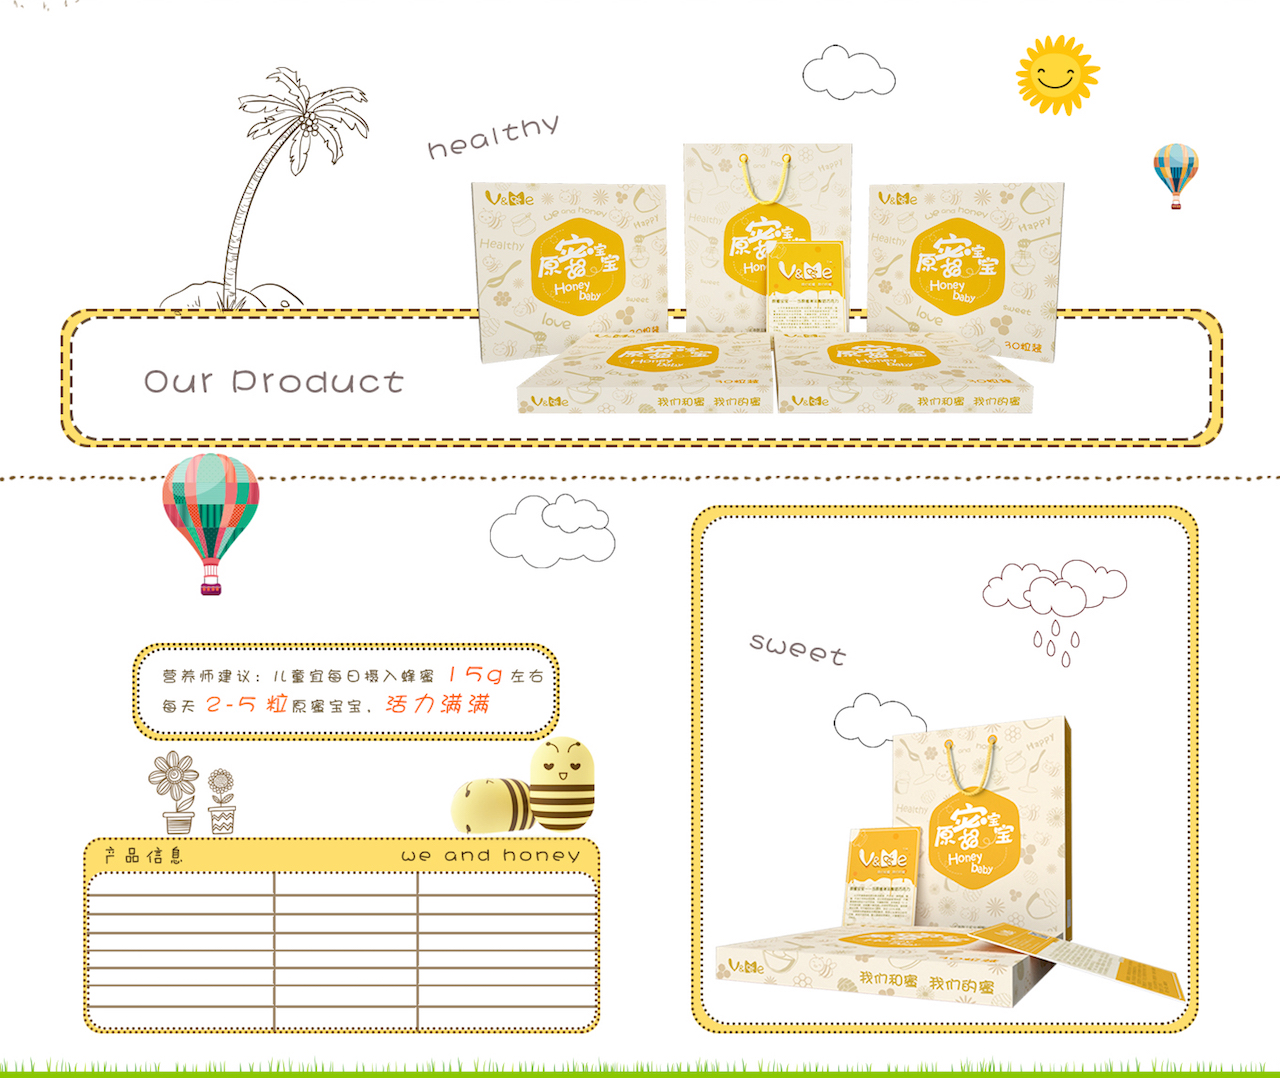
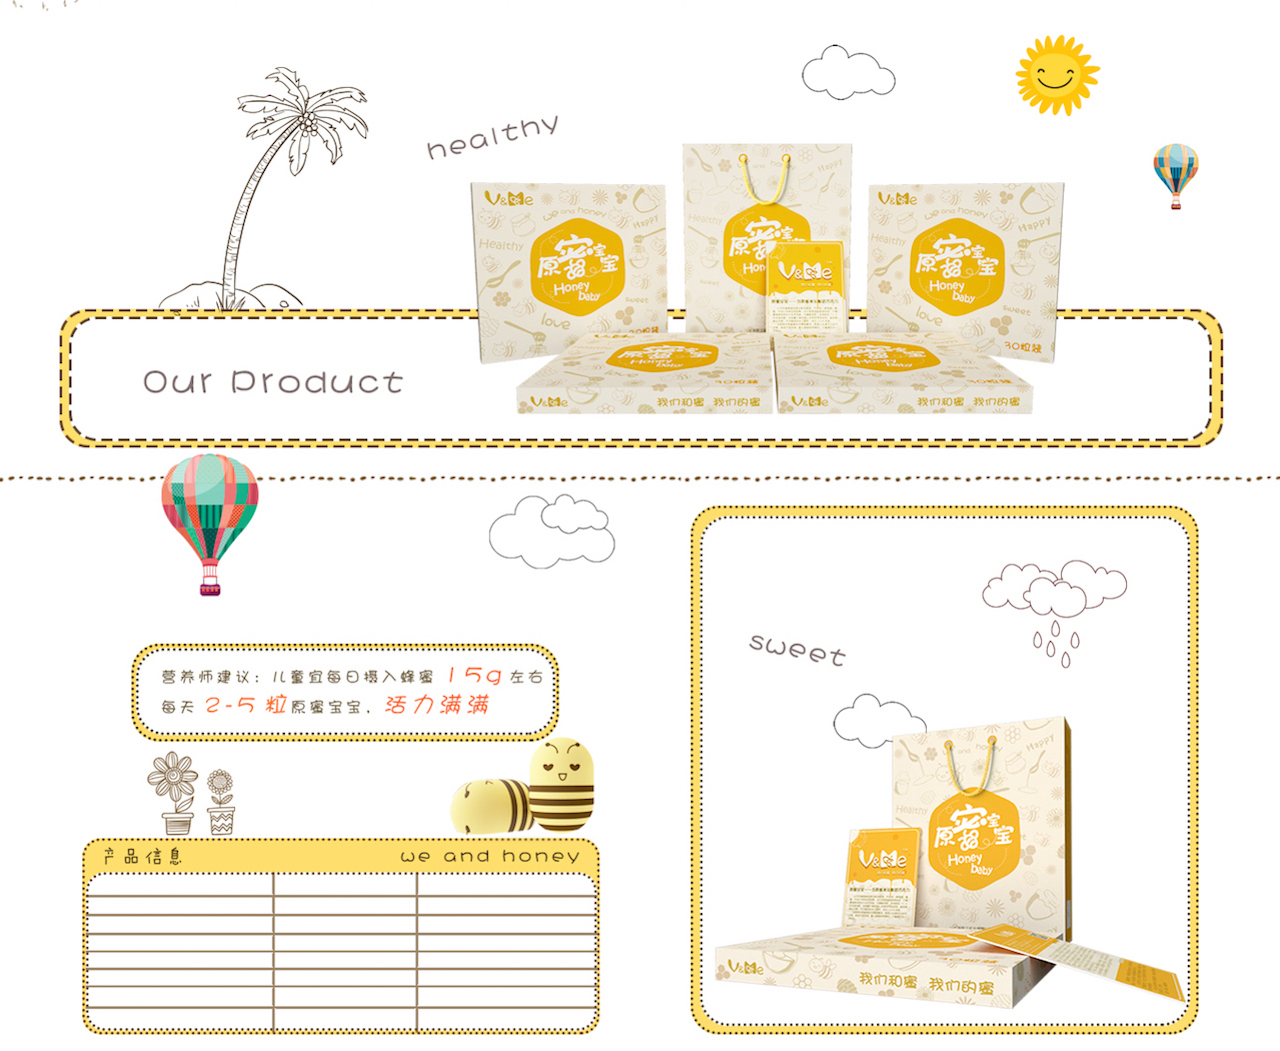
add

diff --git a/index.html b/index.html
@@ -184,7 +184,7 @@
         flex: 1;
     }
     .myfixed {
-        width: 1280px;
+
     }
 </style>
 <!--product-->
@@ -192,24 +192,24 @@
     <div class="container-fluid">
         <div class="row">
             <div class="mygrid">
-                <div class="mycol myfluid" style=" background: url(./image/section-bg2left.jpeg)"></div>
-                <div class="mycol myfixed" style="height: 578px; padding-top: 90px; background: url(./image/section-bg2.png) center no-repeat;">
+                <div class="mycol myfluid" style=" background: url(./image/caodi.png)"></div>
+                <div class="mycol myfixed" style="width:1588px;height: 578px; padding-top: 100px; background: url(./image/section-bg2.png)">
                     <div class="row">
-                        <div style="width: 439px ;height: 160px;margin-left: 780px">
+                        <div style="width: 439px ;height: 160px;margin-left: 880px">
                             <h3>原蜜宝宝--当原蜜邂逅巧克力</h3>
                         </div>
                     </div>
                     <div class="row">
-                        <div style="width: 439px ;height: 160px;margin-left:115px">
+                        <div style="width: 420px ;height: 160px;margin-left:295px">
                             <br>
                             <h3>" 当甜甜的原蜜邂逅浓厚的酸奶，再加上丝滑可口的可可脂，美味不言而喻。配上萌萌哒表情包，小蜜蜂分你一份快乐。 "</h3>
                         </div>
-                        <div style="width: 350px ;height: 160px;margin-left:820px;margin-top: -160px;">
+                        <div style="width: 335px ;height: 160px;margin-left:965px;margin-top: -160px;">
                             以天然健康高品质为甄选标准，严选每一种原料。蜂蜜，不加工待其自然成熟，经过层层指标检测筛选，只要最健康存粹的大自然味道。无糖酸奶粉，采用鲜奶72小时低温发酵，经喷雾干燃而成，不含任何添加剂，滋味更真实浓厚。可可脂优选进口原料，保证100%纯度。
                         </div>
                     </div>
                 </div>
-                <div class="mycol myfluid" style="background: url(./image/section-bg2right.jpeg) "></div>
+                <div class="mycol myfluid" style="background: url(./image/caodi.png) "></div>
             </div>
 
         </div>
@@ -220,7 +220,7 @@
     </div>
     <div class="container-fluid">
         <div class="row">
-            <div style="padding-top:870px;width: 1280px; height: 1078px; margin: 0 auto; background: url(./image/section-bg2b.png) center no-repeat;">
+            <div style="border-left: 2px dashed #714e27;border-right: 2px dashed #714e27;padding-top:885px;width: 1280px; height: 1078px; margin: 0 auto; background: url(./image/section-bg2b.png) center no-repeat;">
                 <table id="mytable" class="table">
                     <tr>
                         <td>
@@ -316,7 +316,9 @@
 
     </div>
 </section>
+<div style="background-image: url('./image/caodi2.jpeg');width: 100%;min-width: 1280px;  height: 18px">
 
+</div>
 <div style="background-image: url('./image/line.png');width: 100%;min-width: 1280px;  height: 6px">
 
 </div>
@@ -334,7 +336,7 @@
 <section id="section-case" class="appear section clearfix">
     <div class="container-fluid">
         <div class="row">
-            <div style="width: 1280px; height: 725px; margin: 0 auto; background: url(./image/case-bg.png) center no-repeat;">
+            <div style="border-left: 2px dashed #714e27;border-right: 2px dashed #714e27;width: 1280px; height: 725px; margin: 0 auto; background: url(./image/case-bg.png) center no-repeat;">
 
             </div>
         </div>
@@ -349,7 +351,7 @@
         </div>
     </div>
     <div class="container">
-        <div class="row align-center" style="height: 437px; padding: 100px">
+        <div class="row align-center" style="border-left: 2px dashed #714e27;border-right: 2px dashed #714e27;height: 437px; padding: 100px">
             <div class="col-lg-6">
                 <div class="container">
 
